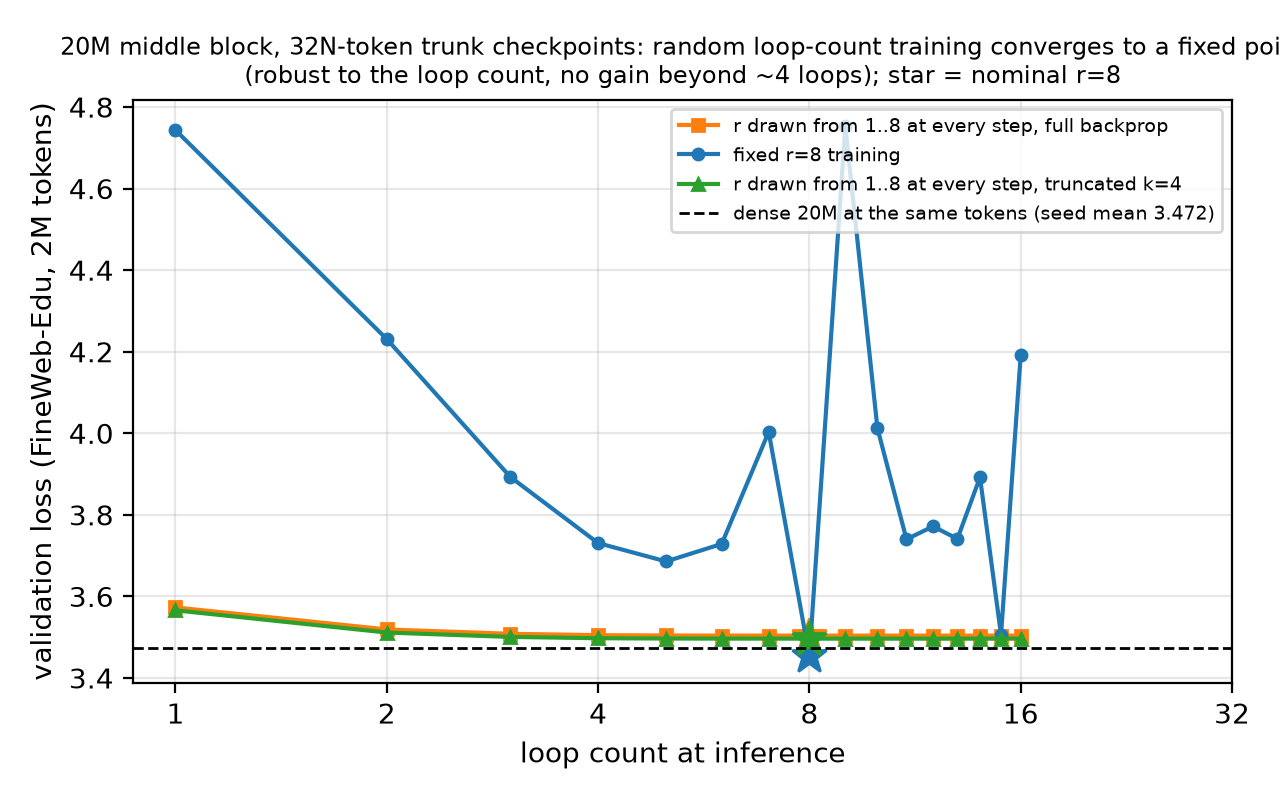
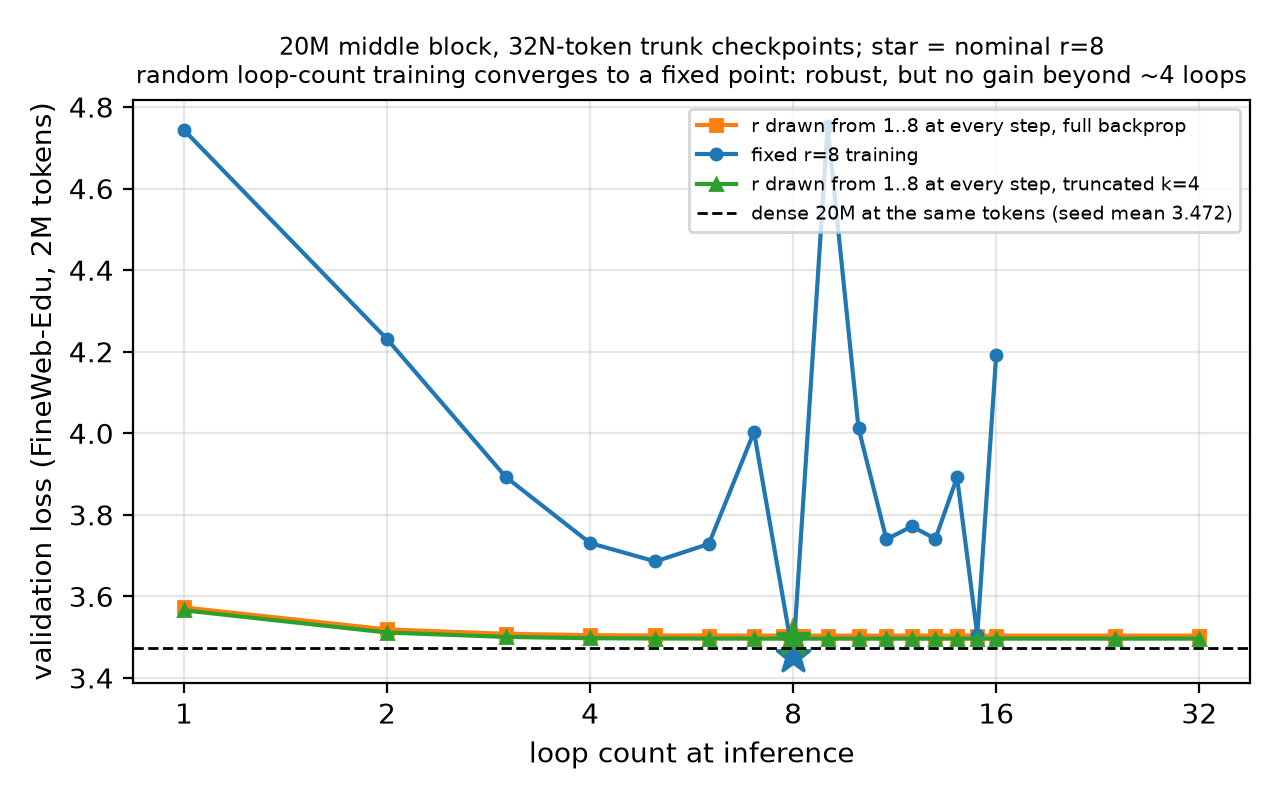
results 5.9: random loop-count training -- a contraction to a fixed point: robust to the loop count, no inference-time gain, ties the dense model; fig10

diff --git a/code/fit/make_figures.py b/code/fit/make_figures.py
@@ -255,8 +255,7 @@ def fig10_random_r(reps: list[dict], extra, dense_ref: float | None, out: str) -
     ax.set_xscale("log", base=2); ax.set_xticks(ticks); ax.set_xticklabels([str(t) for t in ticks])
     ax.set_xlabel("loop count at inference"); ax.set_ylabel("validation loss (FineWeb-Edu, 2M tokens)")
     ax.set_title("20M middle block, 32N-token trunk checkpoints; star = nominal r=8\n"
-                 "random loop-count training converges to a fixed point: robust to the loop count, no gain beyond ~4 loops",
-                 fontsize=8.5)
+                 "random loop-count training converges to a fixed point: robust, but no gain beyond ~4 loops", fontsize=8.5)
     ax.legend(fontsize=7); ax.grid(alpha=0.3)
     fig.tight_layout(); fig.savefig(out + ".png", dpi=200); fig.savefig(out + ".pdf"); plt.close(fig)
 

diff --git a/05_结果汇总.md b/05_结果汇总.md
@@ -118,7 +118,7 @@ F1（r^φ）在留出 80M（0.0084 对 0.0089）与留出 10M（0.0194 对 0.020
 **5.7 逐 token 看循环帮了谁（探索性，`code/fit/token_analysis.py`，`code/results/token_analysis/`）：** 用 40N 预算冷却前的存档（普通模型与循环模型 token 数完全相同），在四张考卷各 200 万 token 上逐 token 比较。为了判断差异里有多少是噪声，用三个种子的普通模型互相比作为基准（任意两个同样好的模型逐 token 也会各有胜负），并把三个种子的逐 token 损失平均后再比。结果：
 - **主考卷上循环的收益是弥散的小幅整体下移，不集中在特定 token 上。** 三个种子平均后，20M 中间块 r=8 平均好 0.012，40M 好 0.025；只有 51% 的 token 是循环模型更好（种子互比基准 48%–49%）；收益最大的 10% token 占总收益的 55%，与基准（56%–57%）相同。按难度分十档，循环的收益在各档都为正、略偏中等难度，并不集中在最难的 token 上；单种子直接比时看到的"难 token 收益大"是分 bin 带来的回归均值假象，基准里同样出现。
 - **分布外考卷上逐 token 比较被种子噪声淹没。** 代码考卷上，普通模型两两互比的平均差距在 −0.47 到 +0.79 之间摆动，和循环对普通的差距（40M 为 +0.37）同一量级，所以此前单种子看到的"代码缩进 token 收益最大"不能成立，予以撤回；数学考卷同理（40M +0.11 对基准 −0.06 到 +0.11）。
-- **推理时改变循环次数（只比较同一模型，结论不受噪声影响）：** 固定次数训练的模型只在训练次数上工作。80M 中间块 r=8 在推理时循环 16 次，主考卷损失从 3.08 升到 5.21，循环 4、2、1 次分别为 4.11、5.20、6.25；所有模型、四张考卷一致。截断训练的整栈 r=8 对次数不敏感：循环 4、8、16 次分别为 3.32、3.15、3.18，但多循环也没有收益。即**固定次数训练的循环模型没有"推理时多想几遍"的能力**，截断让它对次数鲁棒却不受益；Huginn 式的推理时扩展需要训练时随机采样循环次数（延伸实验 B 将直接检验）。
+- **推理时改变循环次数（只比较同一模型，结论不受噪声影响）：** 固定次数训练的模型只在训练次数上工作。80M 中间块 r=8 在推理时循环 16 次，主考卷损失从 3.08 升到 5.21，循环 4、2、1 次分别为 4.11、5.20、6.25；所有模型、四张考卷一致。截断训练的整栈 r=8 对次数不敏感：循环 4、8、16 次分别为 3.32、3.15、3.18，但多循环也没有收益。即**固定次数训练的循环模型没有"推理时多想几遍"的能力**，截断让它对次数鲁棒却不受益；Huginn 式的推理时扩展需要训练时随机采样循环次数（延伸实验 B 的结果见 5.9：换来了鲁棒性，没有换来收益）。
 - 读法：在 10M 到 80M、网页文本上，循环更像"每个 token 多算几遍的整体精修"，而不是只对少数需要多步推理的 token 起作用；这与 9 月 23 日概念笔记的判断一致。
 
 **5.8 逐圈探针：循环块每一圈在做什么（探索性延伸，`code/fit/loop_probe.py`，`code/results/loop_probe/`，图 8、图 9）：** 取 20M/40M/80M 中间块 r=8 与 80M 整栈 r=8 截断（k=4）的 40N 分支起点存档（与 5.7 相同），把循环块连续执行 16 圈（训练时 8 圈），在每一圈之后用三种方式读状态：(a) 原样接模型后半段（尾部两层、归一化、输出层）——等于推理时只循环这么多圈；(b) 在后半段之前加一个训练过的 d×d 线性变换（单位矩阵初始化）——信息是否还在、只是坐标系不对；(c) 直接在状态上训练一个线性输出头。探针在该存档没见过的训练流上训练 1000 万 token，在主考卷 200 万 token 上评测；另记相邻圈状态的余弦与相对变化量、每个 token 的预测在第几圈定型。全部数字见 `summary.csv` 与各 json。
@@ -128,6 +128,21 @@ F1（r^φ）在留出 80M（0.0084 对 0.0089）与留出 10M（0.0194 对 0.020
 - **截断训练学到的是周期为 k 的循环，不是收敛。** 80M 整栈 r=8 截断（k=4）的状态每 4 圈回到几乎同一点（第 4、12、16 圈与第 8 圈的余弦 0.96、0.99、0.99），每到第 4 的倍数圈发生一次大"转身"（相对变化量 1.6–2.3，其余圈 0.4–0.7），原样读在第 4/8/12/16 圈为 3.32/3.15/3.17/3.18、其余圈 4.0–5.4。即只对最后 4 圈反传让模型把"4 圈"学成一个单元并反复执行；执行两遍比一遍好 0.17，再多没有收益。这解释了 5.7 中截断模型"对圈数鲁棒但多循环无益"：鲁棒来自周期性，不是来自逐圈改进。
 - **难 token 的预测定型更晚。** 最终预测错的 token 比对的更晚定型（第 8 圈才定型的比例：20M 44% 对 26%，40M 48% 对 36%，80M 46% 对 34%）；按难度十档，最容易的三档平均在第 2.4–4.6 圈定型，其余七档在第 5.0–5.6 圈（整栈截断：3.5 对 6.2）。这是"难 token 需要更多圈"在 top-1 意义上的证据，但要打折扣：最后一圈的"转身"会翻转本来就不确定的预测，难 token 的分布更平、更容易被翻转。
 - 读法与注意事项：(1) 三档主要结论一致，整栈截断的周期现象是额外发现；(2) 线性头探针训练量不足（1000 万 token、从输出层初始化但输入不是输出层习惯的特征），其绝对值只是上界，整栈模型没有尾部层、线性头与原样读接近，可作校验；(3) 探针只说明"状态里有什么"，不说明模型是否"在推理"；(4) 对潜空间推理的含义：10M 到 80M 的固定次数循环模型没有"多想几圈就更好"的机制，它们实现的是固定长度（或固定周期）的程序；随机次数训练（延伸实验 B）能否诱导出逐圈改进的机制，是下一步直接检验的问题。
+
+**5.9 随机循环次数训练（延伸实验 B，`configs/ext/*rs1to8*`，`results/token_analysis/depth_curve_randr.csv`，图 10）：** Huginn 式做法：20M 中间块 r=8，每个优化器步从 1 到 8 均匀抽一个循环次数（平均 4.5 圈，训练 FLOP 约为固定 8 圈的 56%），评测用标称 8 圈；不截断与截断（k=4，只对实际跑的最后 min(4, r) 圈反传）各一次，种子 42，预算 10N/20N/40N。冷却终点主考卷损失，与主网格同种子的对照：
+
+| 预算 | 随机次数 | 随机次数截断 | 固定 8 圈 | 固定 8 圈截断 | 固定 4 圈 | 普通模型 |
+|---|---|---|---|---|---|---|
+| 10N | 3.728 | 3.722 | 3.666 | 3.665 | 3.660 | 3.655 |
+| 20N | 3.499 | 3.493 | 3.446 | 3.449 | 3.443 | 3.468 |
+| 40N | 3.340 | 3.336 | 3.289 | 3.299 | 3.295 | 3.340 |
+
+- **对圈数完全鲁棒，但多循环没有收益。** 32N 主干存档在主考卷 200 万 token 上的推理循环次数曲线：1 圈 3.573、2 圈 3.519、3 圈 3.508、4 圈 3.505、5 圈 3.504，此后到 32 圈四位小数不变（3.5038–3.5039）；截断版同样（3.566 → 3.496）；第二考卷、数学、代码四张考卷一致（代码考卷从 8 圈到 32 圈再降 0.002，截断版反升 0.009，都可忽略）。对照固定 8 圈模型只在第 8 圈工作（3.453），其余圈 3.5 到 4.7（图 10）。
+- **机制：循环块变成了收缩映射。** 逐圈探针（5.8 同法）显示相邻圈状态的余弦 0.95（1→2）、0.99（3→4）、1.000（第 6 圈起），相对变化量从 0.34 降到 0.008；原样读与加线性变换只差 0.03（没有坐标系错配）；76% 的 token 的预测从第 1 圈起就不再变，平均 1.5 圈定型（最难的档 1.7 圈）。它学到的是"迭代到不动点"，约 4 圈收敛，之后多少圈都一样。
+- **代价是抹掉了循环的全部优势。** 在标称 8 圈上比固定 8 圈差 0.05 nats（40N：3.340 对 3.289），恰好与普通模型打平（3.340 对 3.340），也不如训练算力相近的固定 4 圈（3.295）。所以在 20M、网页文本上，随机次数训练只换来对圈数的鲁棒性，没有换来推理时多循环的收益。
+- **与 5.8 合看。** 固定次数模型 = "约 4 圈逼近 + 最后一圈非线性转身"，转身值 0.07–0.1 nats（线性变换补不回来：第 7 圈 3.53 对第 8 圈 3.43）；随机次数模型只剩逼近部分，收敛水平（3.50）与固定次数模型第 5 到 7 圈线性变换后的水平（3.50）相同。两种训练方式下循环块能从文本里多提取的信息都在 4 圈左右饱和。截断 k=4 在随机次数下与不截断无差别（≤0.01），5.8 的周期-4 现象只在固定次数加截断时出现。
+- **对潜空间推理的含义。** "推理时多算几圈就更好"在这个规模、这种数据上没有出现——不是因为模型多循环会坏（随机次数训练已经消除了这一点），而是再多的循环也没有新信息可提取。要看到收益，需要每个 token 真的需要很多步串行计算的任务，即延伸实验 C（06_合成推理任务设计草案.md）要测的东西。
+- 注意：单种子、只有 20M、只看损失；随机范围 1–8 与 Huginn 的分布（对数正态-泊松，均值 32）不同；探针和曲线用的是 32N 的主干存档而非冷却后的模型。
 
 ## 6. 局限
 

diff --git a/04_路线图.md b/04_路线图.md
@@ -84,7 +84,7 @@
 - [x] 训练代码加两个默认关闭的开关：从已完成任务的存档继续主干（`init_from`）、每步随机循环次数（`r_sample`）；测试 62 项通过；配置生成 `make_configs.py --ext`（2026-10-08）
 - [ ] 160M 中间块 r=4 两个种子（GPU 0、1，各约 2.7 天，预计 10 月 11 日）+ 160M 普通模型种子 43（GPU 2，接在数据延伸之后，约 1.2 天）
 - [ ] 数据延伸：20M 循环到 80N，10M 循环到 80N/160N，10M 普通到 160N（GPU 2，约 15 小时）
-- [ ] 随机循环次数训练：20M 中间块 r=8 不截断与截断各一次（GPU 3，约 9 小时），之后用推理循环次数扫描 1 到 16 评测
+- [x] 随机循环次数训练：20M 中间块 r=8 不截断与截断各一次，推理循环次数扫描 1 到 32 与逐圈探针（2026-10-09 完成，05_结果汇总.md 5.9，图 10）：对圈数完全鲁棒（收缩到不动点），但多循环无收益，且与普通模型打平
 - [x] 逐圈线性探针：80M/40M/20M 中间块 r=8 与 80M 整栈 r=8 截断的 40N 存档（2026-10-08，05_结果汇总.md 5.8，图 8、9）；随机循环次数模型的探针与循环次数扫描已排队在其训练之后自动运行
 - [ ] 合成"可控步数"推理任务的设计与预注册草稿；是否并入本文待与作者讨论
 - [ ] 结果写入 05_结果汇总.md 第 5 节"延伸"小节，更新图表
